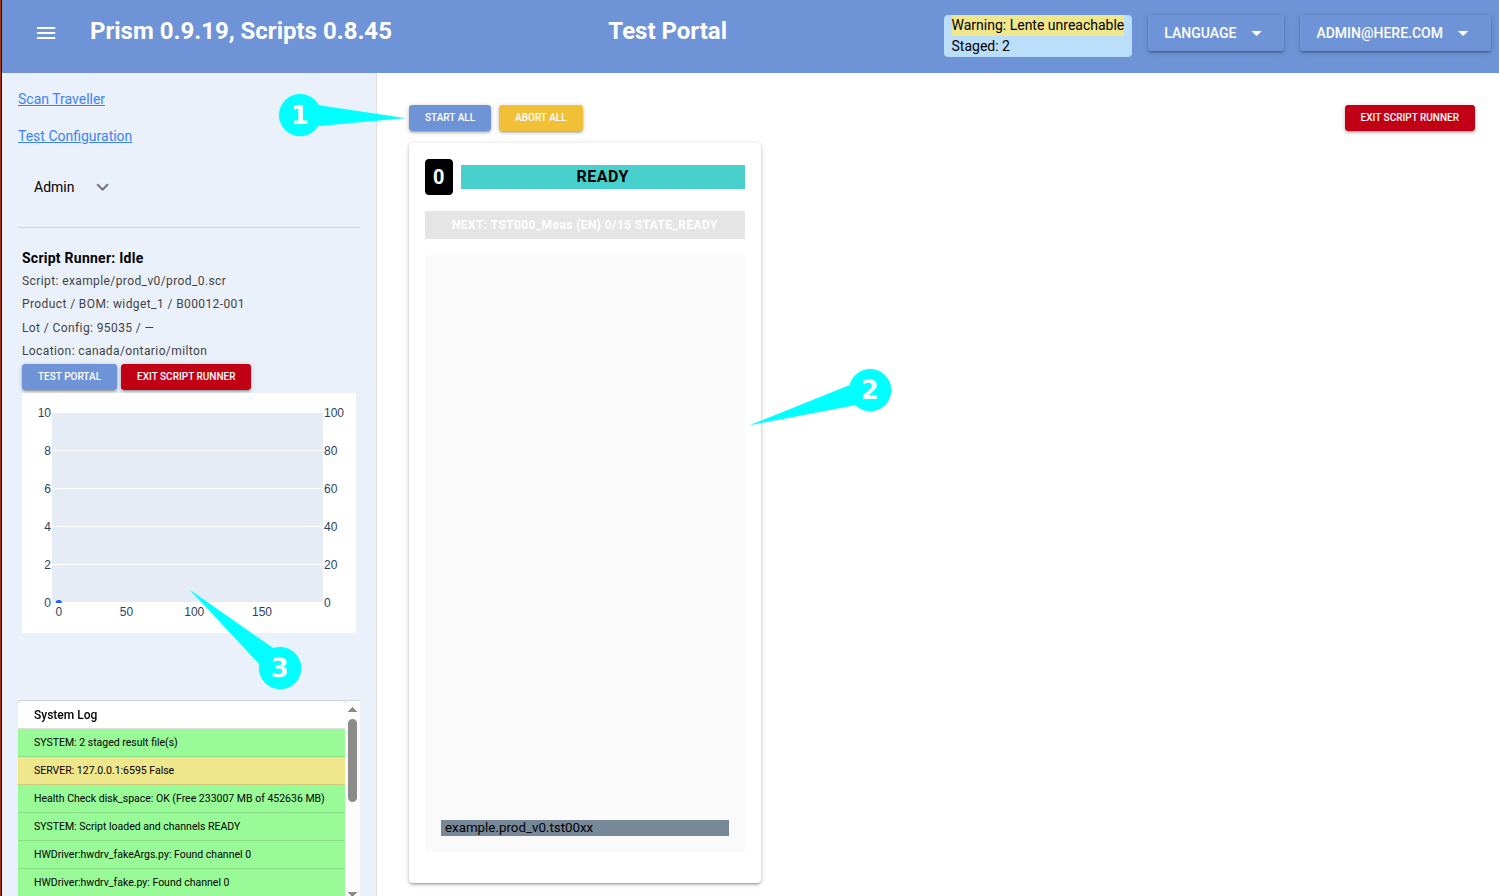
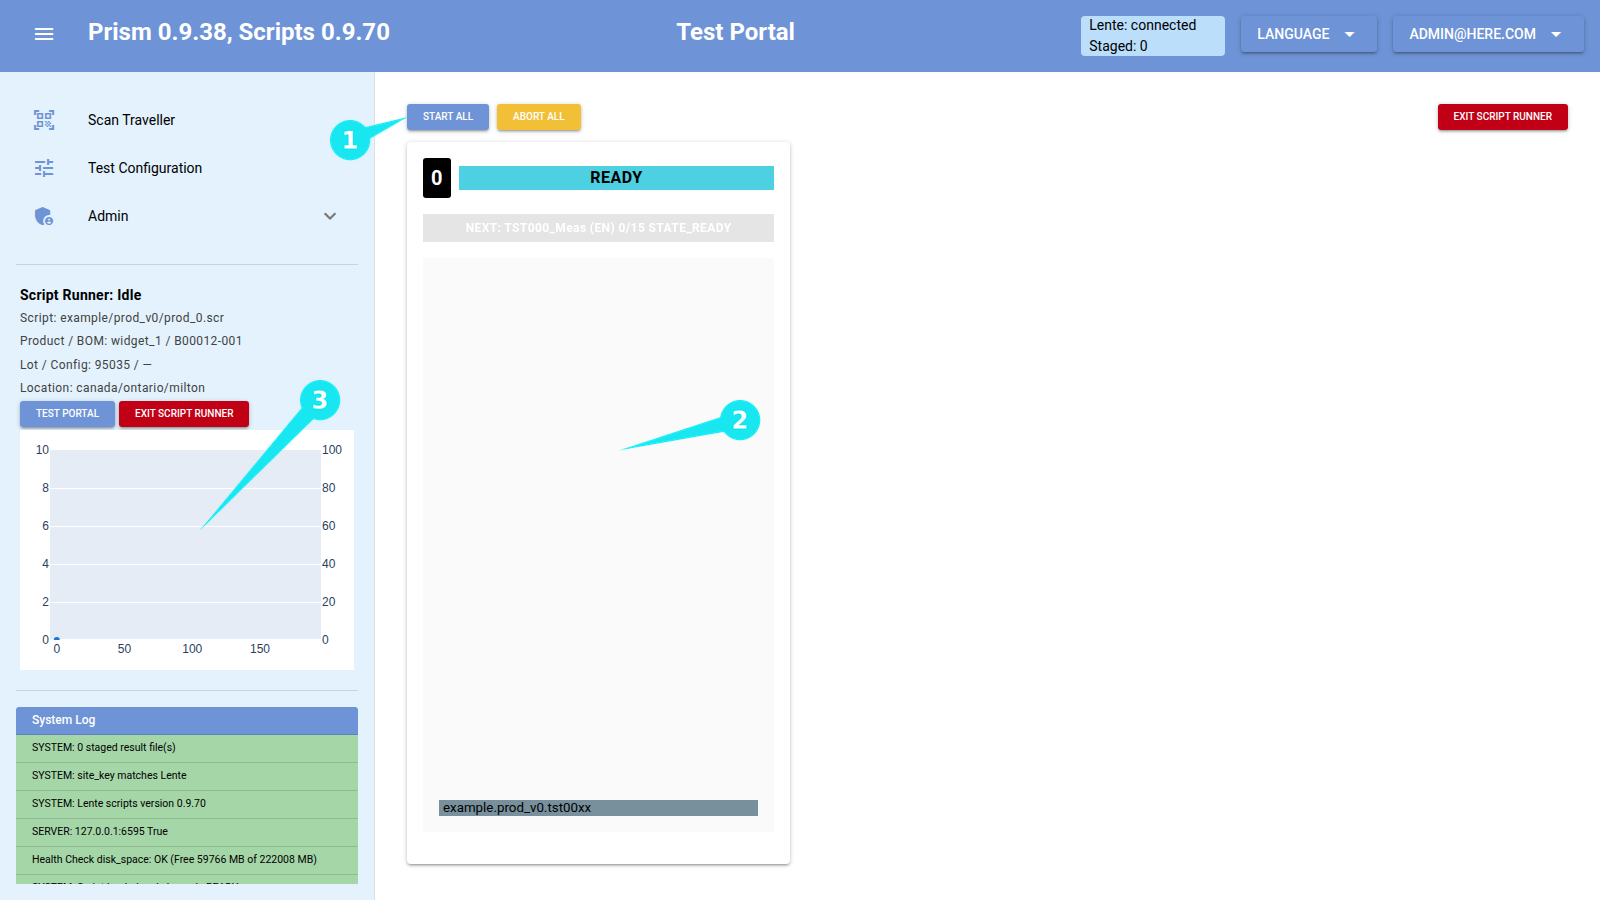
docs: screenshots with new side menu
Retake Prism/Lente screenshots; prism_demo callouts redrawn.

diff --git a/docs/source/prism_demo.rst b/docs/source/prism_demo.rst
@@ -112,7 +112,7 @@ Clone Sistemi Scripts
   * In real production environment, the operator would scan a traveller to
     configure Prism to test a product.  Since this is a demo, we will select a
     test manually.
-  * Select the `Test Configuration` link in the left sidebar (1)
+  * Select `Test Configuration` in the left menu (1)
 
 .. image:: static/Screenshot_prism_demo_1.png
 
